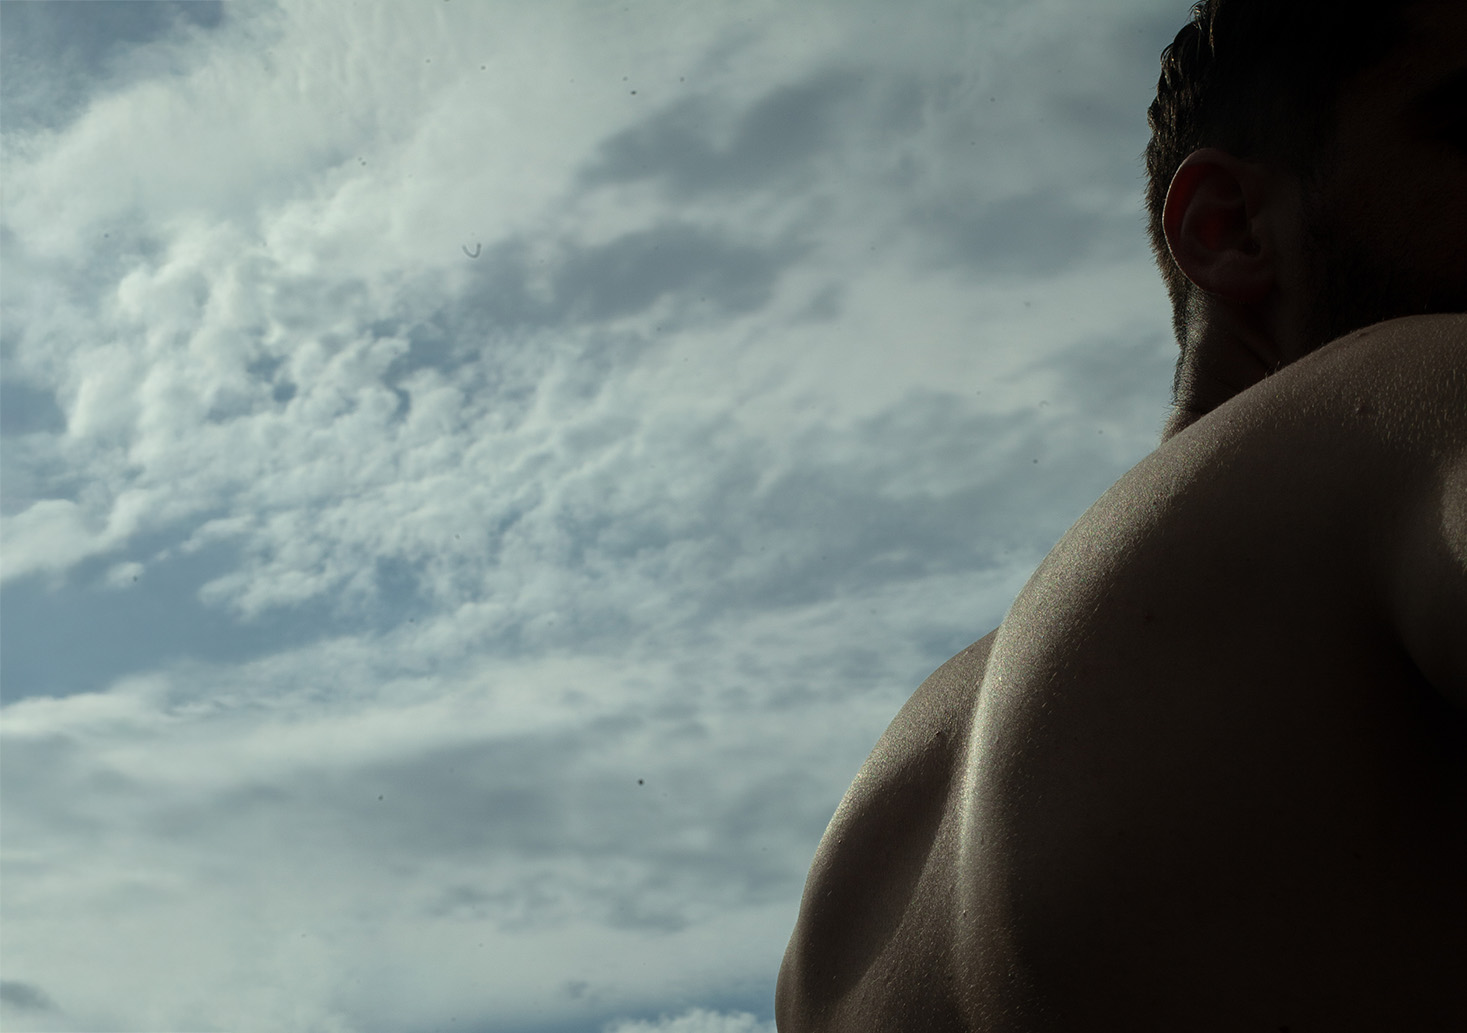
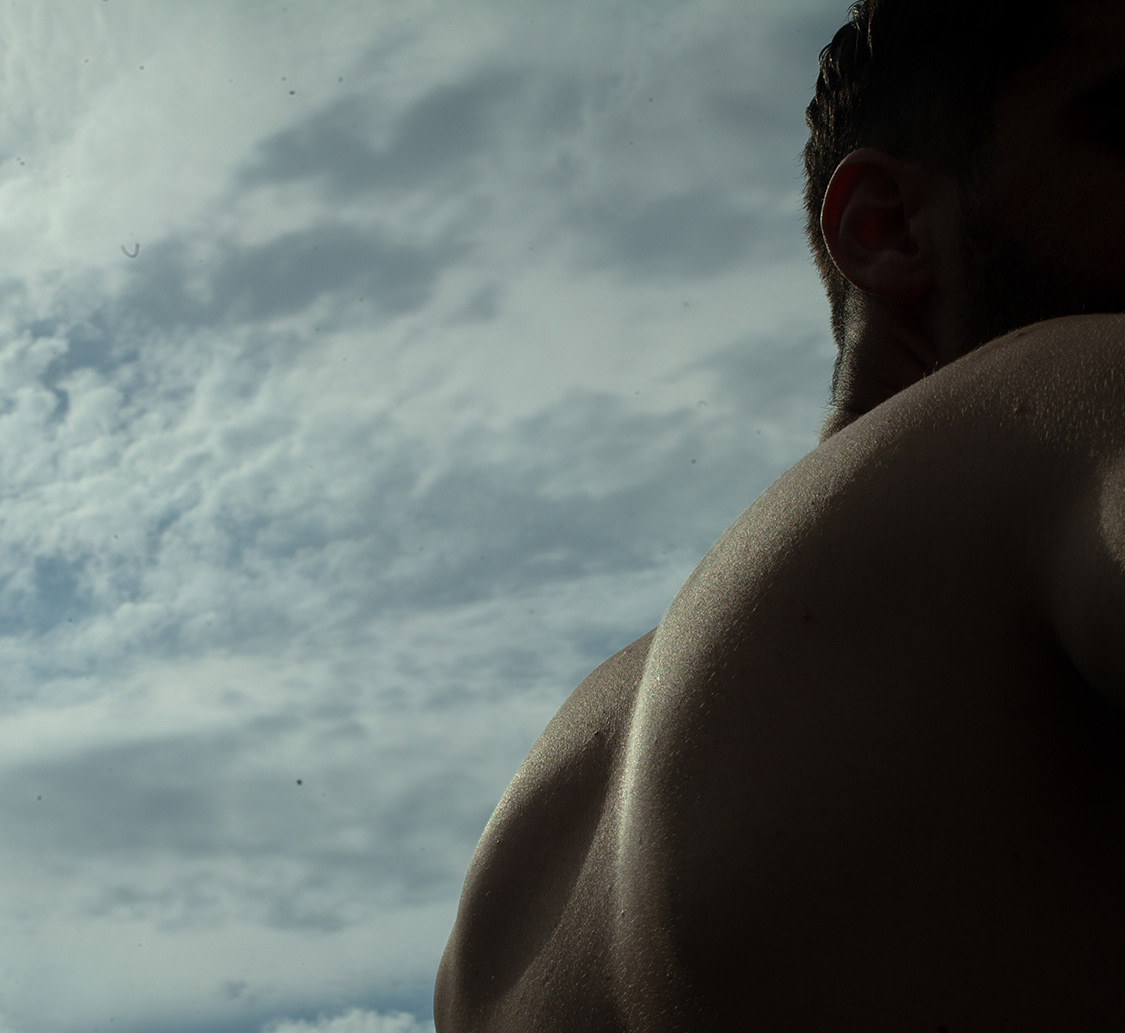
Photo page: the shoulder (04c) gets a narrower crop so the two photos on its left are larger

diff --git a/NOTES-PROJET.md b/NOTES-PROJET.md
@@ -105,7 +105,7 @@ Deux chantiers liés :
   le menu. Avec la photo du vélo, plus de bande noire (sa demande) : la photo remplit tout l'écran, le menu est posé dessus.
 - Ancienne image gardée de côté : `accueil-colonne.jpg` (la colonne de la Bastille, calage par `--gy`, `--gx`, `--iw`,
   en commentaire dans le CSS).
-- Page Photo, 4 novembre 2026 (fin d'après-midi) : il a remplacé dans `photo/` `12b` par `12c` (les baigneurs, version sombre) et `28` par `28b` (deux garçons, ciel d'orage), et tagué `24.jpg` (affichée en grand). `28c.jpg` posé à la racine du dépôt (variante de 28b) n'est pas sur le site. Puis, à sa demande, `25.jpg` (la barrière rouge et blanche) et `46.jpg` (les cannes) retirés du dossier (51 photos), et la dernière ligne limitée à 5 photos (au-delà, deux rangées). 5 novembre 2026 : le bloc baigneurs + garçons au soleil + épaule remonté juste sous la première ligne, en renommant les fichiers (`12c` → `04a`, `13` → `04b`, `13b` → `04c`, tag gardé) : l'ordre de la page est l'ordre des noms. Il veut le bloc tel quel (deux photos empilées à gauche, épaule non réduite) : une photo taguée précédée de deux photos ordinaires ne prend plus de voisines après elle. Puis le bloc 09 (garçon au tee-shirt bleu, en grand) + 10, 11 2, 12 2, 12 remonté juste dessous : renommés `04d` à `04h`. 5 novembre : `04c` (l'épaule) remplacé par sa version horizontale (« IMG_6674_horiz copie » du Bureau, 1467 × 1033), pour qu'elle prenne environ un quart de place en moins ; tag gardé.
+- Page Photo, 4 novembre 2026 (fin d'après-midi) : il a remplacé dans `photo/` `12b` par `12c` (les baigneurs, version sombre) et `28` par `28b` (deux garçons, ciel d'orage), et tagué `24.jpg` (affichée en grand). `28c.jpg` posé à la racine du dépôt (variante de 28b) n'est pas sur le site. Puis, à sa demande, `25.jpg` (la barrière rouge et blanche) et `46.jpg` (les cannes) retirés du dossier (51 photos), et la dernière ligne limitée à 5 photos (au-delà, deux rangées). 5 novembre 2026 : le bloc baigneurs + garçons au soleil + épaule remonté juste sous la première ligne, en renommant les fichiers (`12c` → `04a`, `13` → `04b`, `13b` → `04c`, tag gardé) : l'ordre de la page est l'ordre des noms. Il veut le bloc tel quel (deux photos empilées à gauche, épaule non réduite) : une photo taguée précédée de deux photos ordinaires ne prend plus de voisines après elle. Puis le bloc 09 (garçon au tee-shirt bleu, en grand) + 10, 11 2, 12 2, 12 remonté juste dessous : renommés `04d` à `04h`. 5 novembre : `04c` (l'épaule) remplacé par sa version horizontale (« IMG_6674_horiz copie » du Bureau, 1467 × 1033), pour qu'elle prenne environ un quart de place en moins ; tag gardé. Puis recadrée moins large (1125 × 1033, même fichier du Bureau) pour agrandir les deux photos de gauche.
 - Menu de l'accueil (4 novembre 2026) : Photo, Portfolio, IA, Macro IA, New série (le même que les autres pages, sans
   « ← Accueil »), en colonne à droite.
 - Nom en blanc ; le haut du premier onglet du menu est aligné sur le haut des capitales du nom (0,1365 corps sur
